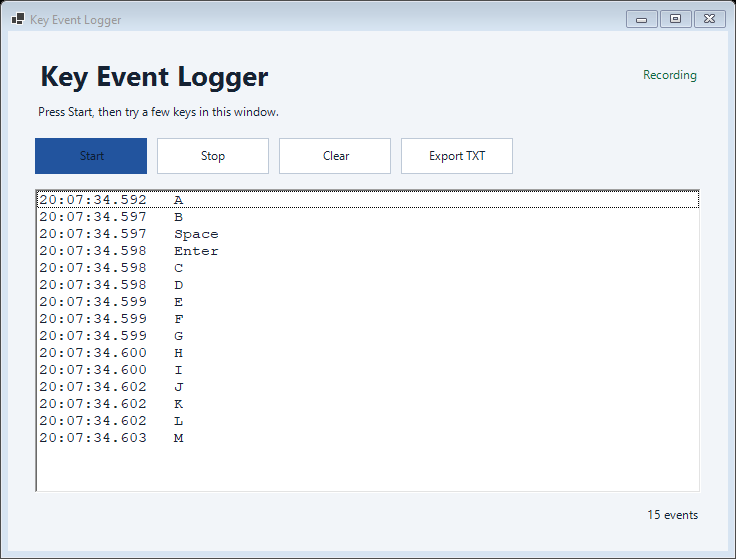
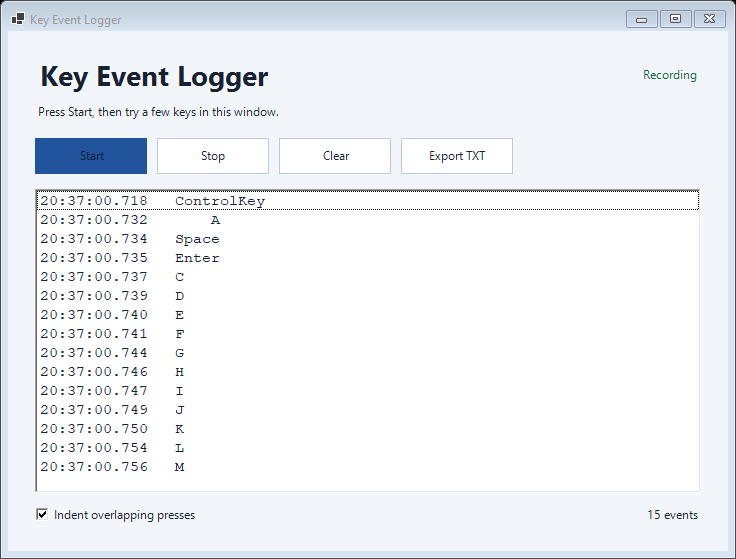
docs: document overlapping key presses

Changed region(s): [[0.0312, 0.3345, 0.375, 0.8515], [0.0312, 0.9123, 0.2812, 0.9428]]

diff --git a/README.md b/README.md
@@ -23,6 +23,8 @@ dotnet run --project KeyEventLogger/KeyEventLogger.csproj
 2. Select **Stop** to stop recording. If you switch windows while recording, **Waiting for focus** appears and recording resumes when you return.
 3. Select **Clear** to empty the list or **Export TXT** to choose a local file. The exported log contains a header and tab-separated timestamps and key names.
 
+The **Indent overlapping presses** option adds one visual indent to a key pressed while another key is already held. It is enabled by default, applies to existing rows when toggled, and leaves the TXT format unchanged.
+
 ## Design and limitations
 
 `MainForm` handles the UI and receives keyboard events. `KeyEvent` represents a single event. `TextLogExporter` writes the entries to disk only when the user exports them.
@@ -37,4 +39,4 @@ The app observes only events delivered to its active form. Windows and control n
 
 **Recording example**
 
-![Key Event Logger showing 15 example key presses](docs/screenshots/recording.png)
+![Key Event Logger showing 15 example key presses, including indented overlapping presses](docs/screenshots/recording.png)
